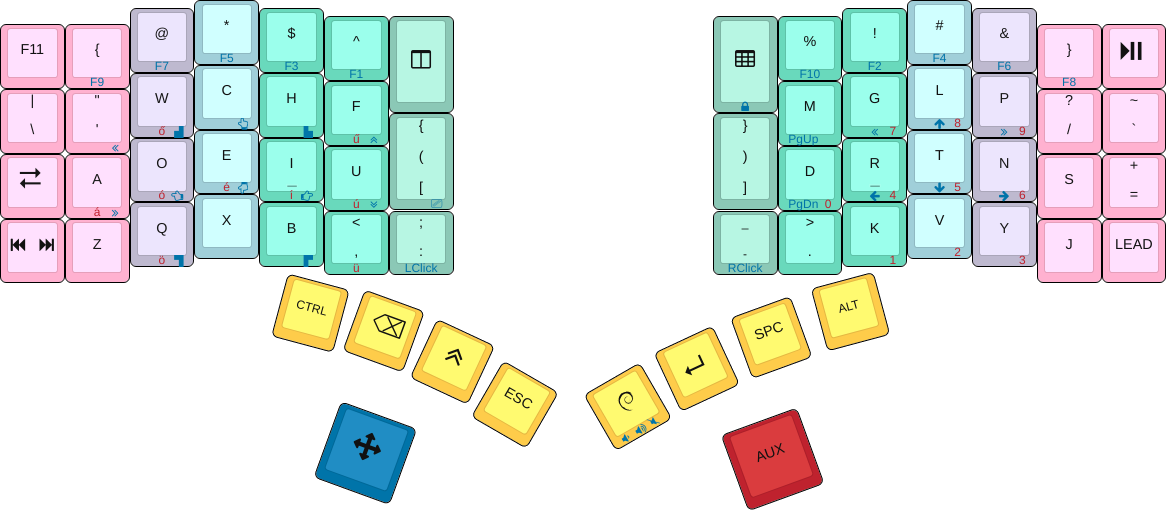
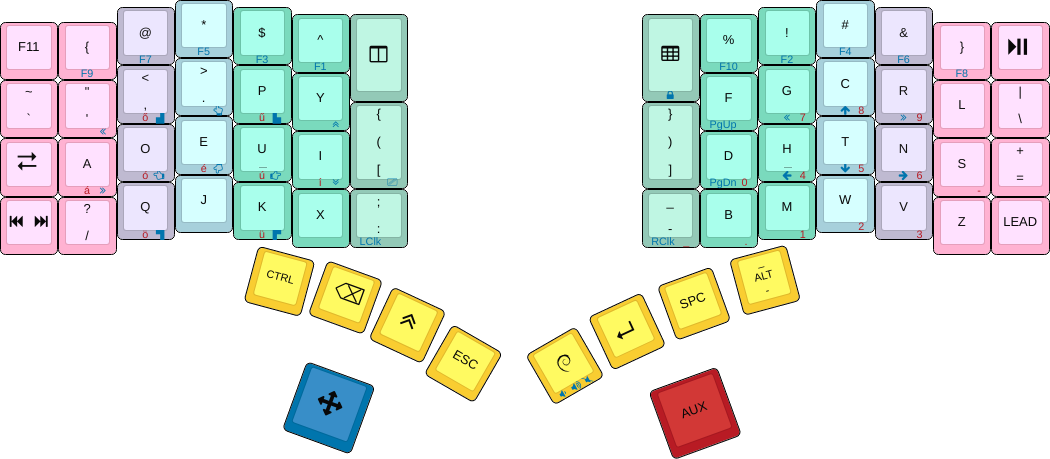
Rearranged the number pad area
Added a period, a dash, and an underscore to make entering certain combinations
easier. While there, rearranged the numbers too.

Fixes #55.

diff --git a/src/keymap.h b/src/keymap.h
@@ -1,6 +1,6 @@
 /* -*- mode: c++ -*-
  * Model01-Sketch -- algernon's Model01 Sketch
- * Copyright (C) 2016, 2017  Gergely Nagy
+ * Copyright (C) 2016, 2017, 2018  Gergely Nagy
  *
  * This program is free software: you can redistribute it and/or modify
  * it under the terms of the GNU General Public License as published by
@@ -69,6 +69,8 @@ enum {
 #define Key_RArrow Key_RightArrow
 #define Key_DnArrow Key_DownArrow
 #define Key_PageDn Key_PageDown
+
+#define Key_Underscore LSHIFT(Key_Minus)
 
 // *INDENT-OFF*
 
@@ -141,10 +143,10 @@ const Key keymaps[][ROWS][COLS] PROGMEM = {
    ,___ ,___ ,___ ,___
    ,OSL(_EMPTY)
 
-   ,XXX ,XXX   ,XXX   ,XXX   ,XXX   ,XXX ,XXX
-   ,XXX ,XXX   ,Key_7 ,Key_8 ,Key_9 ,XXX ,XXX
-        ,Key_0 ,Key_4 ,Key_5 ,Key_6 ,XXX ,XXX
-   ,XXX ,XXX   ,Key_1 ,Key_2 ,Key_3 ,XXX ,XXX
+   ,XXX            ,XXX        ,XXX   ,XXX   ,XXX   ,XXX       ,XXX
+   ,XXX            ,XXX        ,Key_1 ,Key_4 ,Key_7 ,XXX       ,XXX
+                   ,Key_0      ,Key_2 ,Key_5 ,Key_8 ,Key_Minus ,XXX
+   ,Key_Underscore ,Key_Period ,Key_3 ,Key_6 ,Key_9 ,XXX       ,XXX
 
    ,XXX ,XXX ,XXX ,___
    ,___
